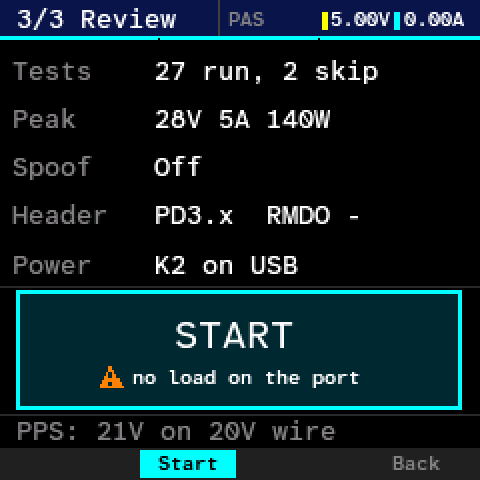
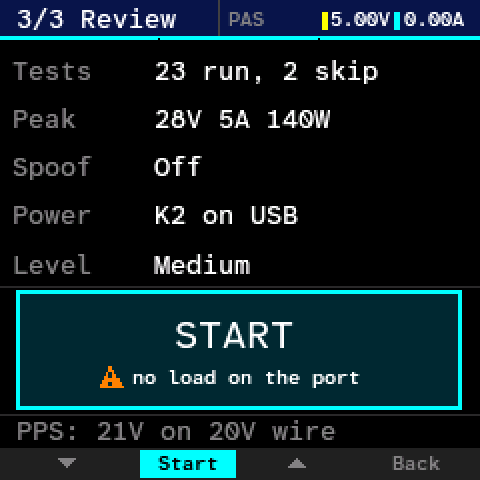
docs(chargertest): the test levels in the guide, UI system and roadmap
Summary
USER_GUIDE gets a "Test levels" section and the Settings row; UI_SYSTEM
gets the Noted verdict state and the Level row; ROADMAP and
CHARGER_TEST_FLOW say the PPS sweep now belongs to Deep; the README
walkthrough and docs/img/ui/ct-review.png show the Level row.

Rationale
The level changes what a default run does (no deep sweep in Medium) and
adds a result state; the docs must say so.

Key Changes
- USER_GUIDE: levels, Review Level row, Settings > Test level,
  ct_start.py --level, LISTED / NOT RUN words, counters fold the listing
  into skip.
- UI_SYSTEM 5.8: LISTED and NOT RUN band words; Noted VerdictCell.
- ROADMAP / CHARGER_TEST_FLOW: PPS sweep on at Deep, Medium off.

Technical Details
ct-review.png re-rendered from test_ui_mockup (K2_DUMP, panel2png --scale 2).

diff --git a/docs/USER_GUIDE.md b/docs/USER_GUIDE.md
@@ -66,7 +66,8 @@ Home -- Detail -- Charger test -- Lines -- Tools -- Settings      long MINUS / l
  |        |            |            |        |          |
  |        |            |            |        |          +-- USB Link (HID, Drive)
  |        |            |            |        |              Autorotate (Auto, Manual 0/90/180/270)
- |        |            |            |        |              Rotate buttons, Screenshot, Smoothing, Wake sleeping port
+ |        |            |            |        |              Rotate buttons, Screenshot, Smoothing, Wake sleeping port,
+ |        |            |            |        |              Test level (Light, Medium, Deep)
  |        |            |            |        |
  |        |            |            |        +-- FC trigger     QC / AFC / FCP / SCP / VOOC, scan
  |        |            |            |            PD trigger     pick a PDO or PPS/AVS voltage
@@ -234,8 +235,9 @@ Steps of the wizard:
 
 2. **Spoof cable (2 of 3)**: the cable identity the K2 presents to the charger (it answers the charger's cable query). The list is the shared one: **Off (real cable)** (no identity), built-ins (for example EPR 50 V 5 A, CUKTECH 6A, OnePlus 100W) and your saved cables. OK picks one and goes to Review. The choice is remembered. It applies to the PD units only.
 
-3. **Review (3 of 3)**: a START row and a summary (Tests, Peak, Cap, Header, Spoof).
-   - The first OK opens a confirmation window: "No load! OK twice within 5 s".
+3. **Review (3 of 3)**: a summary (Tests, Peak, Spoof, Power), the **Level** row and START. START has the focus.
+   - MINUS moves to the Level row; there OK cycles **Light**, **Medium**, **Deep** (see [Test levels](#test-levels)) and the Tests row's step count follows. PLUS goes back to START. The level of each new run starts at Settings > Test level.
+   - The first OK on START opens a confirmation window: "No load! OK twice within 5 s".
    - The second OK starts the test. BACK, a changed setting, or 5 s with no OK closes the window.
    - If a real cable is between the charger and the K2 (an Ra guard check), the screen says "Cable connected: the spoof won't reach the charger." and offers **Start anyway** or **Start, skip spoof** (this run without the identity; the remembered pick stays). BACK also returns to Review.
 
@@ -253,6 +255,18 @@ Notes:
 - QC at 20 V failing is normal (Class B) and is not a finding. QC2 and QC3 are limited to 12 V in the normal tests.
 - Never put a load on the output during a run.
 - Every run saves a **report card** (see [Report cards](#report-cards)) identified by a fingerprint of what the charger did, so repeat runs of the same charger update one card.
+
+#### Test levels
+
+| Level | What runs | VBUS |
+| :--- | :--- | :--- |
+| **Light** | Records what the charger advertises: Source_Capabilities, extended capabilities, EPR info, identity, every PDO and APDO as listed. Legacy protocols only to the point they are detectable at 5 V | stays at 5 V: nothing above 5 V is asked |
+| **Medium** (default) | Every selected test at every level, no deep sweeps | each level the tests ask for |
+| **Deep** | Medium plus the PPS deep sweep and the AVS deep sweep over every APDO (every 100 mV at 1 A) | the whole range of each APDO |
+
+- A Light run's results never show a green pass for something it did not measure. A level the charger lists reads **Advertised**, a legacy protocol that answered at 5 V reads **Detected**, and a level nothing lists is "not asked". These cells have no fill and a grey bar on their left edge. The Results counters count them with the skips; a grid row's footer counts them apart ("1 pass, 4 listed"), and a step's Detail reads **LISTED** (a level the charger offers) or **NOT RUN** (a legacy level).
+- A Light card says "Light run" in its header, and its rows read "detected" and "advertised", never a tick. A Deep card says "Deep run".
+- From the computer: `python3 tools/ct_start.py --level light|medium|deep` (default medium). `--avs-sweep` alone means deep. `--sweep` / `--no-sweep` turn the PPS deep sweep on or off on top of the level. `k2_remote.py charger-level light|medium|deep` sets the level of the next run without starting it.
 
 ### Lines
 
@@ -299,6 +313,7 @@ Spoof is a shortcut: it opens Who's attached on the Cable tab and then the Spoof
 | Screenshot | ON / OFF | across boots |
 | Smoothing | Off / Low / Medium / High | across boots |
 | Wake sleeping port | ON / OFF (default OFF) | across boots |
+| Test level | Light / Medium / Deep (default Medium) | across boots |
 
 +/- selects. OK opens, toggles or cycles (the label on the OK button says which). The footer says "Opens a settings page" or "Remembered across boots".
 
@@ -518,6 +533,7 @@ Radio rows: **Auto** (follows gravity), then **Manual** 0, 90, 180, 270 degrees.
 - **Screenshot**: ON allows remote and browser screen capture. Remembered. Turn it off if you do not want the screen readable over USB.
 - **Smoothing**: Off ("Raw readings"), Low ("Light calming"), Medium ("Balanced"), High ("Steady, slower"). OK cycles. Applied at once, remembered. It filters the display readings only, not the recorded data.
 - **Wake sleeping port**: OFF by default, and then the idle K2 presents no Rd and stays passive. ON lets an idle K2 hold its own Rd on one line at a time (2 s each) when that line reads like a sleeping source (about 3.0 to 3.3 V open, for example a splitter port with nothing plugged in), so the source can wake and the PD list appears without any pin. With it ON every waiting charger also sees the K2 as a sink for a moment, so turn it off again when you do not need it. It never acts during a charger test or a cable/source tool, and turning it off lets go of the line at once. Remembered.
+- **Test level**: the level each new charger test starts at: Light ("Charger test: offers at 5V"), Medium ("Charger test: levels, no sweeps", the default) or Deep ("Charger test: + PPS, AVS sweeps"). OK cycles Light, Medium, Deep. Remembered. The Review step's Level row changes the level too; that choice holds for every run until the next change or a reboot, which starts again from this setting. See [Test levels](#test-levels).
 
 ---
 
@@ -601,7 +617,7 @@ The bootloader area (0x08000000 to 0x080037FF) is never written by this firmware
 | Item | Where | Notes |
 | :--- | :--- | :--- |
 | USB link choice | flash, `/usb.cfg` | off by default, applies after replug |
-| Screenshot on/off, Smoothing, Rotate buttons, Autorotate, Wake sleeping port | flash, `/prefs.cfg` | remembered |
+| Screenshot on/off, Smoothing, Rotate buttons, Autorotate, Wake sleeping port, Test level | flash, `/prefs.cfg` | remembered |
 | Cable identity for the charger test | flash, `/cable.cfg` | remembered |
 | Saved cables (up to 140) | flash | also shown on the drive as JSON |
 | Report cards (up to 64) | flash | also on the drive as `CARDS.JSON` |

diff --git a/docs/UI_SYSTEM.md b/docs/UI_SYSTEM.md
@@ -402,7 +402,7 @@ repaints two rows. A change of the open height re-lays the rows below it.
 Seen in: `b_ct_algorithms.png` (radio, count tail, note, chevron), `b_ct_cable.png` (second column),
 `b_ct_steps.png` (verdict marker, volt tail, thumb), `ra_guard_refuse.png` (choices, no marker).
 
-### 5.5 KvTable: `kit::kv_static`, `kv_cells`, `kv_row`
+### 5.5 KvTable: `kit::kv_static`, `kv_cells`, `kv_row`, `kv_row_sel`
 
 | | |
 |---|---|
@@ -411,8 +411,9 @@ Seen in: `b_ct_algorithms.png` (radio, count tail, note, chevron), `b_ct_cable.p
 | Key | font 16, `kDim`, x6 |
 | Value | font 16, left edge at a page-fixed column: x72 (18 characters) or x92 (16 characters) |
 | Value colour | `kText`; the unit colour for a measured value; `kCaution` for the abnormal row; `kDim` or `kFaint` for `--` |
-| Repaints | one row (224 x 25) when its key, value or colour changes |
-| Seen in | `b_ct_review.png` (x72: Tests, Peak, Spoof, Header, Power), `b_ct_detail.png` (x92: Target, Measured, Window, Reason, Header or Mode, Scope) |
+| Settable row | `kv_row_sel`: a row the cursor can stand on (the charger test's Level). Focused, it takes the RowList focus look (`kFocusFill` ground, the 3 px `kFocusBar` when the theme has one, else the on-focus inks); OK changes its value in place, the strip says `Change` and the footer explains the value |
+| Repaints | one row (224 x 25) when its key, value, colour or focus changes |
+| Seen in | `b_ct_review.png` (x72: Tests, Peak, Spoof, Power, then the settable Level row), `b_ct_detail.png` (x92: Target, Measured, Window, Reason, Header or Mode, Scope) |
 
 ### 5.6 ActionCell: `kit::ActionCell`
 
@@ -421,6 +422,7 @@ Seen in: `b_ct_algorithms.png` (radio, count tail, note, chevron), `b_ct_cable.p
 | Purpose | The one thing OK does on a review page |
 | Geometry | full width, y156, 64 px (y156..219). A 1 px `kRule` at y154 closes the table above |
 | Idle | `kFocusT` fill, 2 px `kFocus` outline, verb in font 24 `kText` centred. Optional hint under it: 11 px `kCaution` triangle + font 12 `kCaution` text |
+| Idle, not focused | when the cursor stands on a settable KvTable row instead (`draw_idle(..., focused = false)`): `kBg` fill, 2 px `kRule` outline, verb and hint in `kInk2`, so the focus is never on two things at once |
 | Armed | `kCaution` fill, black word `CONFIRM` in font 24, black font-12 line `closes in 5s`, 4 px black bar along the bottom that drains to the left over 5 s (`Ui::kConfirmWindowMs`) |
 | Repaints | the whole cell on a state or text change; the bar repaints only the columns it leaves |
 | Seen in | `b_ct_review.png` (idle, hint `no load on the port`), `b_ct_confirm.png` (armed) |
@@ -443,7 +445,7 @@ Seen in: `b_ct_algorithms.png` (radio, count tail, note, chevron), `b_ct_cable.p
 | Purpose | The verdict of the one item a detail page shows |
 | Geometry | full width, y22..57 (36 px). 20 x 20 verdict glyph at x6, y30. Word in font 24 at x32, y28. Item name in font 16 right-aligned to x218, y32 |
 | Fill | the verdict's fill; `kSurface` for a verdict with no fill |
-| Words | `PASS`, `FAIL`, `CAPPED`, `SKIP`, `RUNNING`, `PENDING` |
+| Words | `PASS`, `FAIL`, `CAPPED`, `SKIP`, `RUNNING`, `PENDING`; a Light run's listing reads `LISTED` (a level the source offers) or `NOT RUN` (a legacy level above 5 V), both on the Noted look (`result_layout::verdict_word`) |
 | Seen in | `b_ct_detail.png` (FAIL), `ufcs_cuktech_detail.png` (PASS) |
 
 It is drawn by the page today (`paint_detail`). It belongs in the kit beside AlertBand: same box, same word place.
@@ -459,6 +461,13 @@ It is drawn by the page today (`paint_detail`). It belongs in the kit beside Ale
 | Partial | `kCautionT` | `kCaution` | tilde | 2 px `kCaution` bar on the bottom edge |
 | None, Stopped | none | `kDim` | 2 px dash | |
 | Skip | none | `kDim` | 2 px dash | 1 px strike through the label |
+| Noted | none | `kText` | upright 2 px `kDim` bar | 2 px `kDim` bar down the cell's left edge (`kNotedBarW`); never struck |
+
+- **Noted** is what a Light run records without measuring it: a level the source advertises (a Skip with reason
+  `Advertised`) or a legacy level not asked (`LightLevel`). It reads "Advertised" for a range or a listed level and
+  "Detected" for a protocol that answered at 5 V; it is never green and never red (`result_layout::Tone::Noted`,
+  `report_card::tone`). A Light card's passing groups read Noted too. The results page (`docs/site/r/card.js`) uses
+  the same tone: no fill, a grey left bar, the glyph `i`.
 
 - Label font: 16 in a cell 22 px or taller, else 12. The label is centred.
 - Glyph size: the cell's short side minus 4, at most 12.
@@ -564,7 +573,9 @@ them should move them into the kit first.
 - First OK arms: amber cell, `CONFIRM`, 5 s bar. Footer turns Caution and says what the second press does
   (`Press again to start`). Strip: `Confirm`.
 - Second OK inside the window starts. Any other key, or the window running out, disarms.
-- PLUS and MINUS have no short action on a review page; their short labels are blank.
+- PLUS and MINUS have no short action on a review page; their short labels are blank. The exception is a settable
+  KvTable row (`kv_row_sel`, the charger test's Level): PLUS and MINUS move between it and the ActionCell, which keeps
+  the focus by default; OK on the row changes the value in place.
 - A hazard that does not block rides in the cell as the hint line.
 
 **Alert with choices.** `ra_guard_refuse.png`
@@ -883,7 +894,7 @@ Scope: every interactive page takes the unified design; the read-only instrument
 | Progress rule | y20..21 | the lab drew it at y21..22 |
 | Row hairline | top line of the row | the lab drew it on the bottom line |
 | Strip | 16 px thick | the skill said 20 px |
-| Review keys | Tests, Peak, **Spoof**, Header, Power | the skill said Cable |
+| Review keys | Tests, Peak, **Spoof**, Power, then the settable **Level** row (2026-11-15: Level took Header's place) | the skill said Cable |
 | Step 2 title | `2/3 Spoof cable` | the skill said Cable |
 | Cable warning | band `Cable connected`; choices `Start anyway`, `Start, skip spoof`; BACK cancels | the skill said `Cable on plug` and a `Cancel` row |
 | Step detail rows | Target, Measured, Window or Reached, Reason, Header or Mode, Scope | the skill listed a `Settled` row |

diff --git a/docs/ROADMAP.md b/docs/ROADMAP.md
@@ -1070,7 +1070,7 @@ Measured draw on the HID port at 5 V (inline meter, 2026-11-09):
   above; fixed in 64c0ba5, hardware check pending). **Default since 2026-11-14 (user decision, branch k2/pps-sweep):** the
   session's default run sweeps every PPS APDO, split at 5 V: the part from 5 V up right after the APDO's own
   min / max / step rows (Pd, also self-powered), the part below 5 V in PdLow (external power); opt-out: the Tests list line, `k2_remote charger-sweep off` (Cmd 0x0F), `ct_start.py --no-sweep`. The AVS sweep below
-  stays opt-in. Order and opt-out: `docs/CHARGER_TEST_FLOW.md`. Originally opt-in, never in the default preset: every 100 mV across each PPS
+  stays opt-in. **Since the test levels (k2/ct-level): Deep only.** Medium, the default level, runs no deep sweep; Deep runs the PPS and the AVS sweep (open decision: the brief's "Deep = Medium + PPS sweep" over the 2026-11-14 default). Order and opt-out: `docs/CHARGER_TEST_FLOW.md`. Originally opt-in, never in the default preset: every 100 mV across each PPS
   APDO, 1 A (AVS: the row below), Accept + PS_RDY + measured VBUS per point, results as a compact error-vs-setpoint
   strip on the results tab and the card (min / max / worst error and where, plus the peak delivered level and a
   fold-back: a steady out-of-band point is recorded, not a stop - "peak 19.75 V at 19.9 V, folds back to 19.42 V
@@ -1106,6 +1106,13 @@ Measured draw on the HID port at 5 V (inline meter, 2026-11-09):
   hardware the Sweep row shows one chip that goes green, amber or red when the sweep closes.
 
 ## Not verified on hardware
+
+- **Charger-test levels** (k2/ct-level, built and host-tested only). Check on a PD charger with PPS (the Anker IQ4): a
+  Light run (Review Level row, or `ct_start.py --level light`) keeps VBUS at 5 V for the whole run (`pd_trace.py dump`:
+  no Request above 5 V, `vbus_fast` never above 5.5 V), the grid shows the listed PDOs/APDOs as Advertised (no fill, grey
+  left bar), the card header reads "Light run"; a Deep run sweeps every PPS and AVS APDO; Medium has no sweep rows.
+  Settings > Test level survives a reboot and sets the Review row; `stack_free` in the heartbeat stays above its
+  current floor on Review and Results.
 
 - A direct large PPS step-down of a running contract: 21 V to 13 V aborts at the +10 % overvoltage guard
   (`HW_TEST_PROCEDURES.md`, T02).
@@ -1268,6 +1275,8 @@ Measured draw on the HID port at 5 V (inline meter, 2026-11-09):
 | Report cards, Results view, QR readout (card format versions in QR_SHARE.md) | done | verified (cards); QR phone scan not verified | `chargertest`, `qrshare_records`, `ui_share` |
 | Reboot-resume journal (`/jr`) | done | partial: see Not verified | `session_store` |
 | The 6 A hunt rows report "not unlocked" instead of failing when the source never offered 6 A | done | not verified on the CUKTECH 120 W | `chargertest` |
+| Test levels: Light (what is advertised, VBUS stays at 5 V), Medium (default, no deep sweeps), Deep (+ PPS and AVS deep sweeps); Review Level row, Settings > Test level, `charger-level` (0x5B), `ct_start.py --level`, level on the card and in the QR record; the Noted verdict for what a Light run did not measure | done | not verified | `chargertest`, `ui_charger_test`, `kit` |
+| A Legacy row waits through a source output restart (up to 10 s) instead of failing it | done | not verified | `chargertest` |
 
 ## USB-PD
 

diff --git a/docs/CHARGER_TEST_FLOW.md b/docs/CHARGER_TEST_FLOW.md
@@ -295,11 +295,12 @@ two rows:
 
 The results strip, the card and its summary keep ONE sweep per APDO: `ctsweep::View::apdo` summarizes both parts' points in
 setpoint order. The step labels name each part ("PPS 5-21V", "PPS 3.3-4.9V"). The cost is about 0.7 s per point (about 55 s
-for 3.3-11 V, 125 s for 3.3-21 V, both parts). Opt-out: the Tests list line "PPS sweep", `k2_remote charger-sweep off`
-(Cmd 0x0F with 0) or `ct_start.py --no-sweep`; the choice holds until the next change or a reboot. The AVS sweep stays
+for 3.3-11 V, 125 s for 3.3-21 V, both parts). Since the test levels (k2/ct-level) the Deep level turns it on and Medium,
+the default, leaves it off. On top of the level: the Tests list line "PPS sweep", `k2_remote charger-sweep on|off`
+(Cmd 0x0F) or `ct_start.py --sweep` / `--no-sweep`; the choice holds until the next change or a reboot. The AVS sweep stays
 opt-in (`charger-avs-sweep on`, `ct_start.py --avs-sweep`). It is not split, because AVS APDOs start at 9 V or 15 V. Both
 sweeps share the 640-point record in plan order (SPR AVS, PPS, EPR AVS): a typical list (SPR AVS 9-20 V 111 points, PPS
-3.3-11 V and 3.3-21 V 256, EPR AVS 15-36 V 211) needs 578, so the default-on PPS sweep takes nothing from an AVS sweep that
+3.3-11 V and 3.3-21 V 256, EPR AVS 15-36 V 211) needs 578, so a PPS sweep takes nothing from an AVS sweep that
 is turned on; a list past 640 points sweeps fewer parts, the parts from 5 V up first. A journal of a run without the sweep
 bit (older firmware) resumes without sweep rows. Host tests: `test_default_run_sweeps_each_pps_apdo_after_its_checks`,
 `test_pps_sweep_splits_at_5v_by_unit`, `test_default_sweep_on_a_low_latch_source`, `test_self_powered_run_sweeps_from_5v`.

diff --git a/README.md b/README.md
@@ -93,6 +93,7 @@ Start it from **Test charger** in the Charger place. Plug the charger in with **
 </table>
 
 - Step 1 picks a preset (All tests, PD only, Legacy only, Vendor modes or Custom). **OK** picks it and goes on. Step 2 picks the cable identity to present; the Review step lists what will run.
+- The Review step's **Level** row (MINUS to reach it, **OK** to change) sets how far the run goes: **Light** lists what the charger advertises and keeps VBUS at 5 V, **Medium** (the default, set in Settings > Test level) tests every level, **Deep** adds the PPS and AVS deep sweeps. A Light run marks what it did not measure as Advertised or Detected, never as a pass.
 - On Review, **OK** (Start) arms the run. The button turns orange and reads CONFIRM; a bar drains over 5 s. A second **OK** inside that time starts the run; if the 5 s pass, it disarms.
 
 <table>
